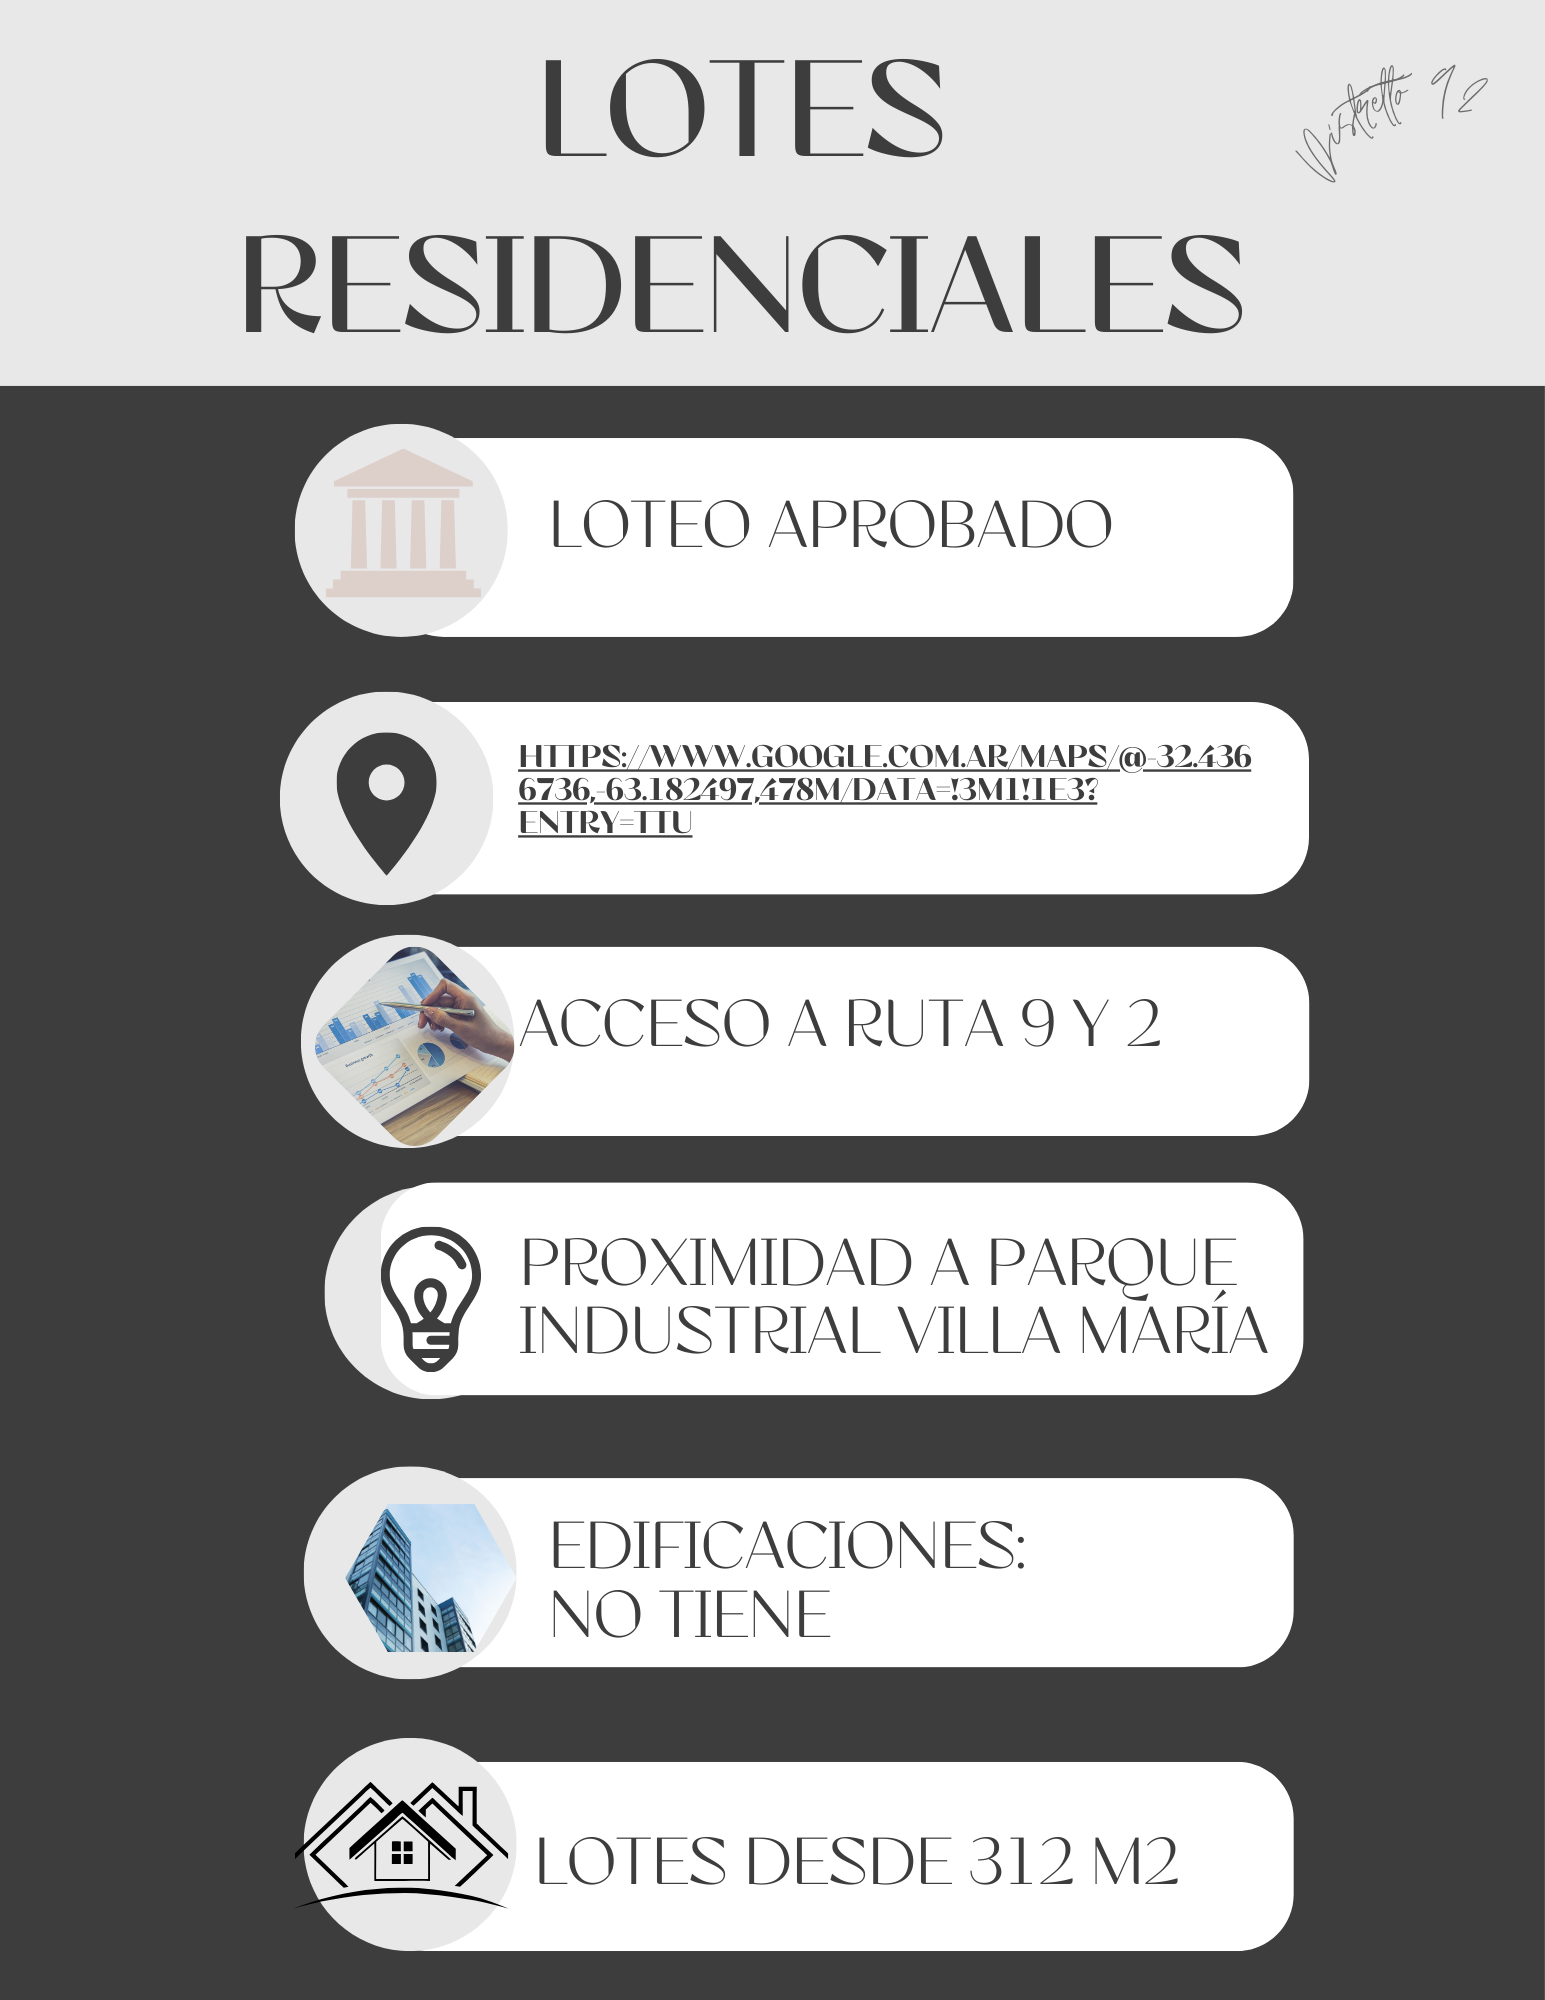
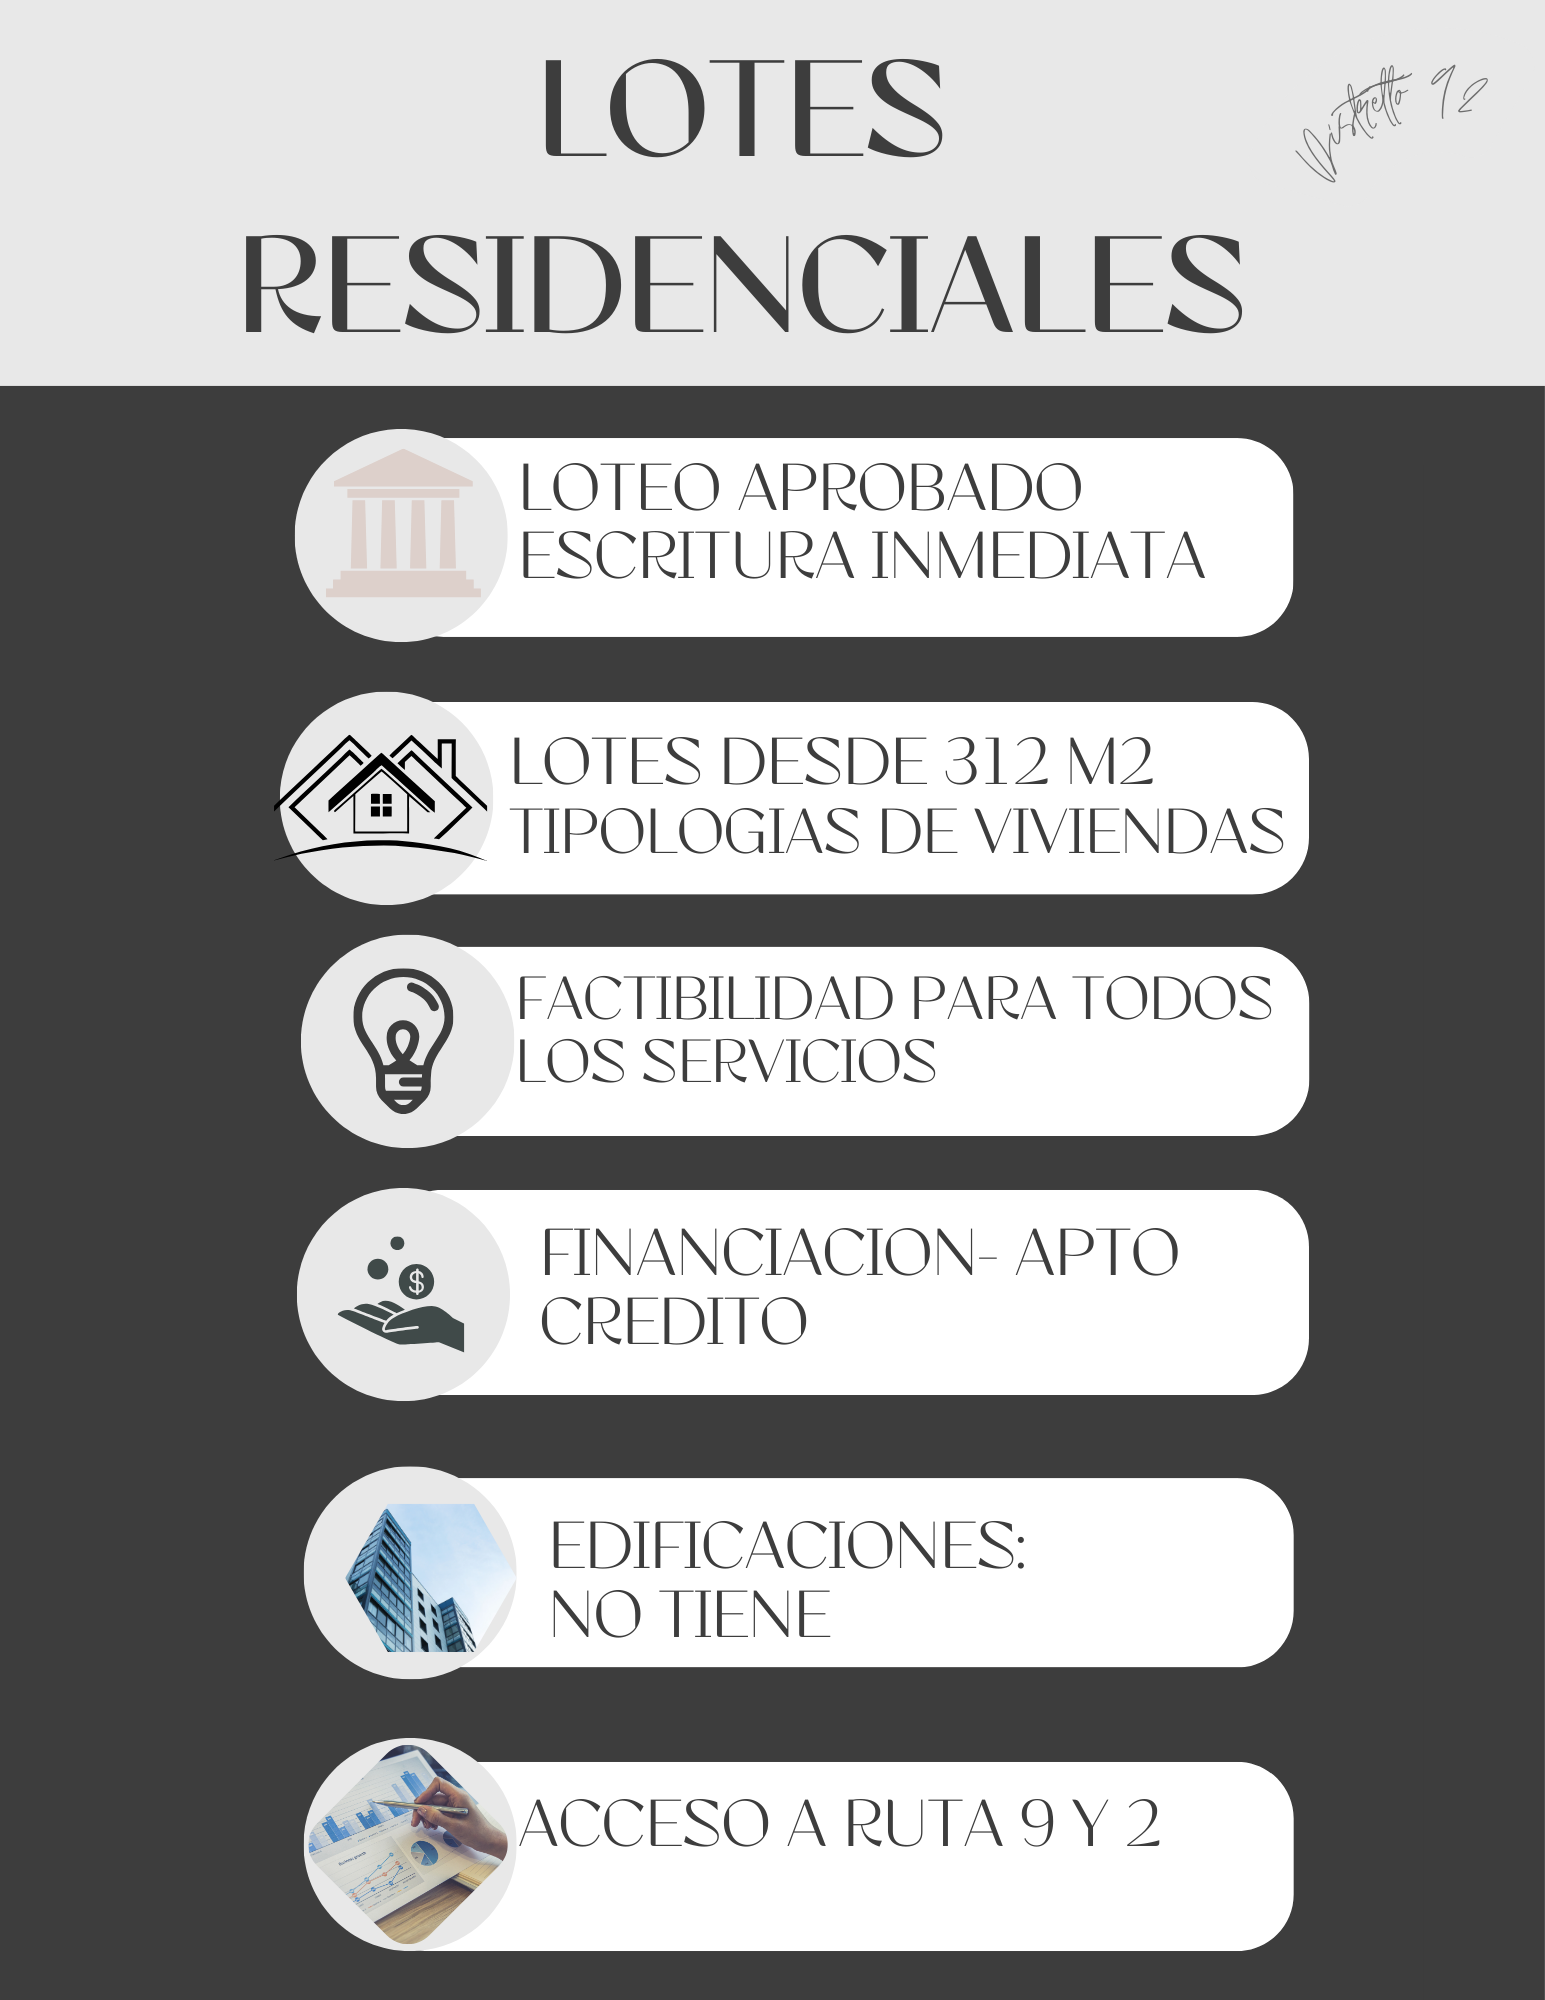
Incorporacion de link para ver google maps, incorporacion de tipologías, carousel en index,estilo, servicios

diff --git a/index.html b/index.html
@@ -51,7 +51,7 @@
     <section id="sobre-nosotros" class="mt-4">
       <h2>Sobre Nosotros</h2>
       <p>Bienvenidos a DISTRETTO 92, tu nuevo punto estratégico en las rutas 9 y 2.</p>
-      <p>En DISTRETTO 92, hemos creado un desarrollo inmobiliario pensado específicamente para el sector productor y logístico, además de ofrecer lotes residenciales. Ubicado estratégicamente en la intersección de las rutas 9 y 2, nuestro proyecto ofrece una ventaja incomparable en términos de conectividad y accesibilidad.</p>
+      <p>En DISTRETTO 92, es un desarrollo inmobiliario con aprobación de la MEUL "Mesa de Entrada única de Loteos" pensado específicamente para el sector productor y logístico, además de ofrecer lotes residenciales. Ubicado estratégicamente en la intersección de las rutas 9 y 2, nuestro proyecto ofrece una ventaja incomparable en términos de conectividad y accesibilidad.</p>
       
       <h3>Nombre con Significado</h3>
       <p>El nombre "DISTRETTO" evoca la idea de una zona o área específica, reflejando el carácter integral y planificado de nuestro desarrollo. El número "92" añade un toque distintivo y hace referencia a nuestra ubicación privilegiada, subrayando la importancia de nuestra conexión con dos de las principales arterias viales del país.</p>
@@ -70,6 +70,42 @@
       <p>Te invitamos a explorar nuestra página y conocer más sobre las oportunidades que DISTRETTO 92 tiene para ofrecer. Conéctate con nosotros y descubre cómo podemos ser la base de tu próximo gran proyecto, ya sea comercial o residencial.</p>
     </section>
     
+    <!-- Carousel Section -->
+    <section class="mt-4">
+      <div id="carouselExampleControls" class="carousel slide">
+        <div class="carousel-inner">
+          <div class="carousel-item active">
+            <img src="imagenes/planimetria.jpg" class="d-block w-100 carousel-img" alt="Planimetría">
+            <div class="carousel-caption d-none d-md-block">
+              <h5>Planimetría</h5>
+              <p>Sobre Ruta 9 y Ruta 2</p>
+            </div>
+          </div>
+          <div class="carousel-item">
+            <img src="imagenes/PREVENTA INFO.png" class="d-block w-100 carousel-img" alt="Ubicación">
+            <div class="carousel-caption d-none d-md-block">
+              <h7>Información de Contacto</h7>
+              <p>Preventa_Etapa 1</p>
+            </div>
+          </div>
+        </div>
+        <a class="carousel-control-prev" href="#carouselExampleControls" role="button" data-slide="prev">
+          <span class="carousel-control-prev-icon" aria-hidden="true"></span>
+          <span class="sr-only">Previous</span>
+        </a>
+        <a class="carousel-control-next" href="#carouselExampleControls" role="button" data-slide="next">
+          <span class="carousel-control-next-icon" aria-hidden="true"></span>
+          <span class="sr-only">Next</span>
+        </a>
+      </div>
+    </section>
+    <div class="elementor-widget-container">
+      <style>/*! elementor - v3.23.0 - 25-07-2024 */
+.elementor-widget-google_maps .elementor-widget-container{overflow:hidden}.elementor-widget-google_maps .elementor-custom-embed{line-height:0}.elementor-widget-google_maps iframe{height:300px}</style><div class="elementor-custom-embed">
+  <a href="https://maps.app.goo.gl/1F5tyR8qznnEoxUs7" target="_blank">Ver en Google Maps</a>
+</div>
+    </div>
+
     <!-- Aquí está la sección del formulario y contacto -->
     <div id="contacto" class="mt-4">
       <form id="formulario">

diff --git a/lotes_residenciales.html b/lotes_residenciales.html
@@ -5,6 +5,12 @@
   <meta name="viewport" content="width=device-width, initial-scale=1.0">
   <title>Lotes Residenciales - DISTRETTO 92</title>
   <link href="https://maxcdn.bootstrapcdn.com/bootstrap/4.4.1/css/bootstrap.min.css" rel="stylesheet">
+  <style>
+    .carousel-img {
+      height: 500px;
+      object-fit: cover;
+    }
+  </style>
 </head>
 <body>
   <nav class="navbar navbar-expand-lg navbar-dark bg-dark">
@@ -34,19 +40,21 @@
   </nav>
   <div class="container mt-4">
     <h1>Lotes Residenciales</h1>
-    <p>https://maps.app.goo.gl/8V4bXRJRGT2eqc1m8</p>
+    <a href="https://maps.app.goo.gl/8V4bXRJRGT2eqc1m8" target="_blank" class="btn btn-link">Ver en Google Maps</a>
 
     <div id="lotesCarousel" class="carousel slide" data-ride="carousel">
       <ol class="carousel-indicators">
         <li data-target="#lotesCarousel" data-slide-to="0" class="active"></li>
         <li data-target="#lotesCarousel" data-slide-to="1"></li>
+        <li data-target="#lotesCarousel" data-slide-to="2"></li>
+        <li data-target="#lotesCarousel" data-slide-to="3"></li>
       </ol>
       <div class="carousel-inner">
         <div class="carousel-item active">
           <img src="imagenes/10.png" class="d-block w-100 carousel-img" alt="Descripción Servicio Lotes Residenciales">
           <div class="carousel-caption d-none d-md-block">
             <h5>Servicios</h5>
-            <p>Escritura Inmediata- Desde 312m2</p>
+            <p>Escritura Inmediata - Desde 312m2</p>
           </div>
         </div>
         <div class="carousel-item">
@@ -54,6 +62,20 @@
           <div class="carousel-caption d-none d-md-block">
             <h5>Geolocalización</h5>
             <p>Sobre Ruta 9 y Ruta 2</p>
+          </div>
+        </div>
+        <div class="carousel-item">
+          <img src="imagenes/Vivienda basica.JPG" class="d-block w-100 carousel-img" alt="Tipología">
+          <div class="carousel-caption d-none d-md-block">
+            <h5>Construcción</h5>
+            <p>Tipología Vivienda Básica</p>
+          </div>
+        </div>
+        <div class="carousel-item">
+          <img src="imagenes/vivienda mejorada.jpg" class="d-block w-100 carousel-img" alt="Tipología">
+          <div class="carousel-caption d-none d-md-block">
+            <h5>Construcción</h5>
+            <p>Tipología Vivienda Mejorada</p>
           </div>
         </div>
       </div>

diff --git a/lotes_comerciales.html b/lotes_comerciales.html
@@ -5,6 +5,12 @@
   <meta name="viewport" content="width=device-width, initial-scale=1.0">
   <title>Lotes Comerciales - DISTRETTO 92</title>
   <link href="https://maxcdn.bootstrapcdn.com/bootstrap/4.4.1/css/bootstrap.min.css" rel="stylesheet">
+  <style>
+    .carousel-img {
+      height: 500px;
+      object-fit: cover;
+    }
+  </style>
 </head>
 <body>
   <nav class="navbar navbar-expand-lg navbar-dark bg-dark">
@@ -34,13 +40,15 @@
   </nav>
   <div class="container mt-4">
     <h1>Lotes Comerciales</h1>
-    <p>https://maps.app.goo.gl/SEo9yNpgB8vJpTUv9</p>
+    <a href="https://maps.app.goo.gl/SEo9yNpgB8vJpTUv9" target="_blank" class="btn btn-link">Ver en Google Maps</a>
 
     <div id="lotesCarousel" class="carousel slide" data-ride="carousel">
       <ol class="carousel-indicators">
         <li data-target="#lotesCarousel" data-slide-to="0" class="active"></li>
         <li data-target="#lotesCarousel" data-slide-to="1"></li>
         <li data-target="#lotesCarousel" data-slide-to="2"></li>
+        <li data-target="#lotesCarousel" data-slide-to="3"></li>
+        <li data-target="#lotesCarousel" data-slide-to="4"></li>
       </ol>
       <div class="carousel-inner">
         <div class="carousel-item active">
@@ -58,10 +66,17 @@
           </div>
         </div>
         <div class="carousel-item">
-          <img src="imagenes/planimetria.jpg" class="d-block w-100 carousel-img" alt="Plano Manzana L">
+          <img src="imagenes/Nave Basica.JPG" class="d-block w-100 carousel-img" alt="Tipología Nave Básica">
           <div class="carousel-caption d-none d-md-block">
-            <h5>Planimetria</h5>
-            <p>Sobre Ruta 9 y Ruta 2</p>
+            <h5>Construcción</h5>
+            <p>Tipología Nave Básica</p>
+          </div>
+        </div>
+        <div class="carousel-item">
+          <img src="imagenes/Nave Mejorada.JPG" class="d-block w-100 carousel-img" alt="Tipología Nave Mejorada">
+          <div class="carousel-caption d-none d-md-block">
+            <h5>Contrucción</h5>
+            <p>Tipología Nave Mejorada</p>
           </div>
         </div>
       </div>
@@ -85,3 +100,4 @@
   <script src="https://maxcdn.bootstrapcdn.com/bootstrap/4.4.1/js/bootstrap.min.js" integrity="sha384-wfSDF2E50Y2D1uUdj0O3uMBJnjuUD4Ih7YwaYd1iqfktj0Uod8GCExl3Og8ifwB6" crossorigin="anonymous"></script>
 </body>
 </html>
+

diff --git a/styles.css b/styles.css
@@ -76,3 +76,14 @@ textarea {
     font-size: 20px;
     box-sizing: border-box;
 }
+  .carousel {
+    height: 420px; /* Ajusta la altura según tus necesidades */
+    overflow: hidden; /* Oculta cualquier parte de la imagen que se desborde */
+  }
+  
+  .carousel-item img {
+    width: 100%; /* Ajusta el ancho a 100% del contenedor */
+    height: 100%; /* Ajusta la altura al 100% del contenedor */
+    object-fit: cover; /* Mantiene la imagen cubierta sin distorsionar */
+  }
+   
